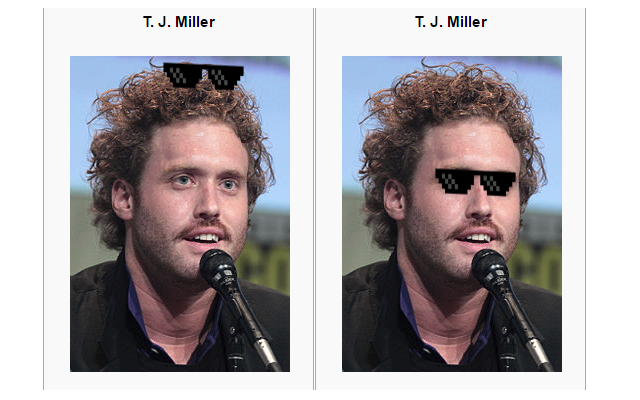
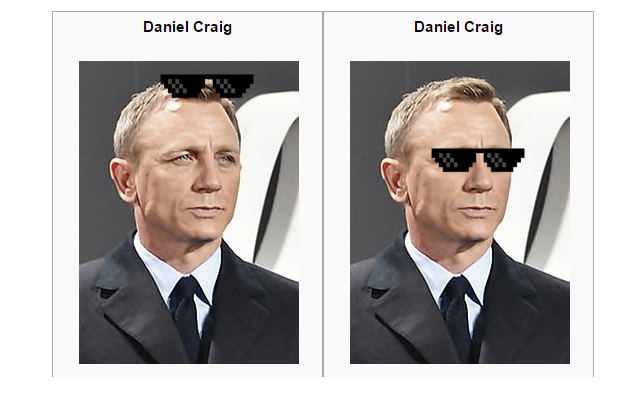
Wider.

diff --git a/src/inject/inject.js b/src/inject/inject.js
@@ -18,7 +18,7 @@ chrome.extension.sendMessage({}, function(response) {
 				shades.id = 'cool-shades';
 				shades.src = chrome.extension.getURL('shades.png');
 
-				shades.width = Math.max(event.data[0].width + event.data[0].x,
+				shades.width = 14 + Math.max(event.data[0].width + event.data[0].x,
 					event.data[1].width + event.data[1].x) -
 					Math.min(event.data[0].x, event.data[1].x);
 
@@ -26,7 +26,7 @@ chrome.extension.sendMessage({}, function(response) {
 					event.data[1].height + event.data[1].y) -
 					Math.min(event.data[0].y, event.data[0].y));
 
-				shades.style.left = (img.offsetLeft + Math.min(event.data[0].x, event.data[1].x)) + 'px';
+				shades.style.left = -7 + (img.offsetLeft + Math.min(event.data[0].x, event.data[1].x)) + 'px';
 				shades.style.top = 0;
 				shades.style.position = 'absolute';
 
